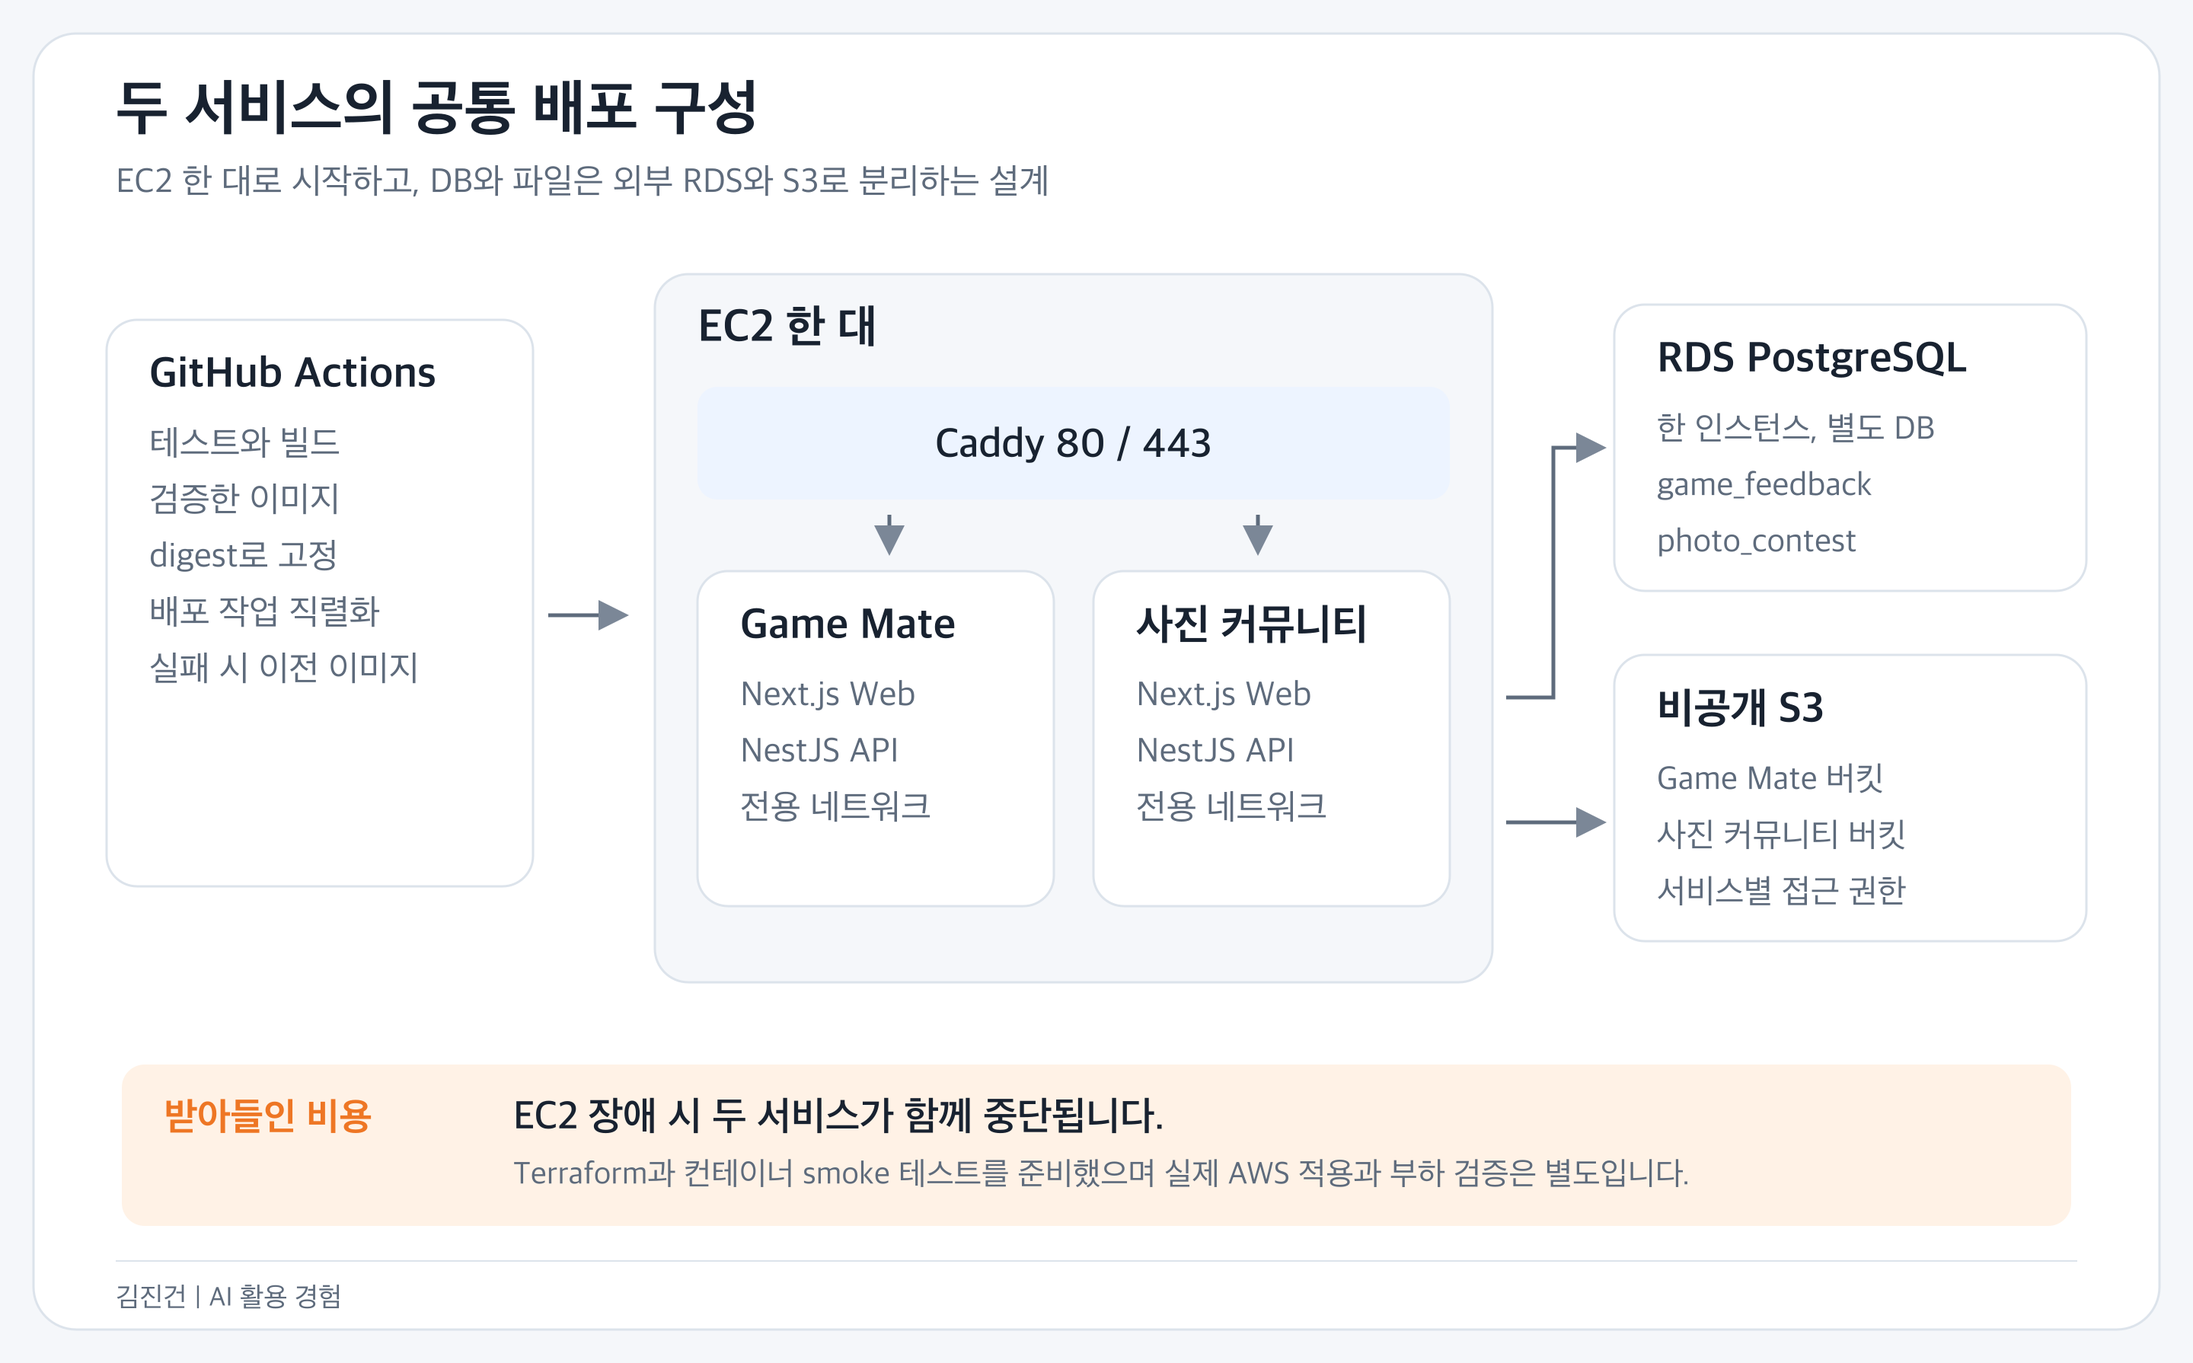
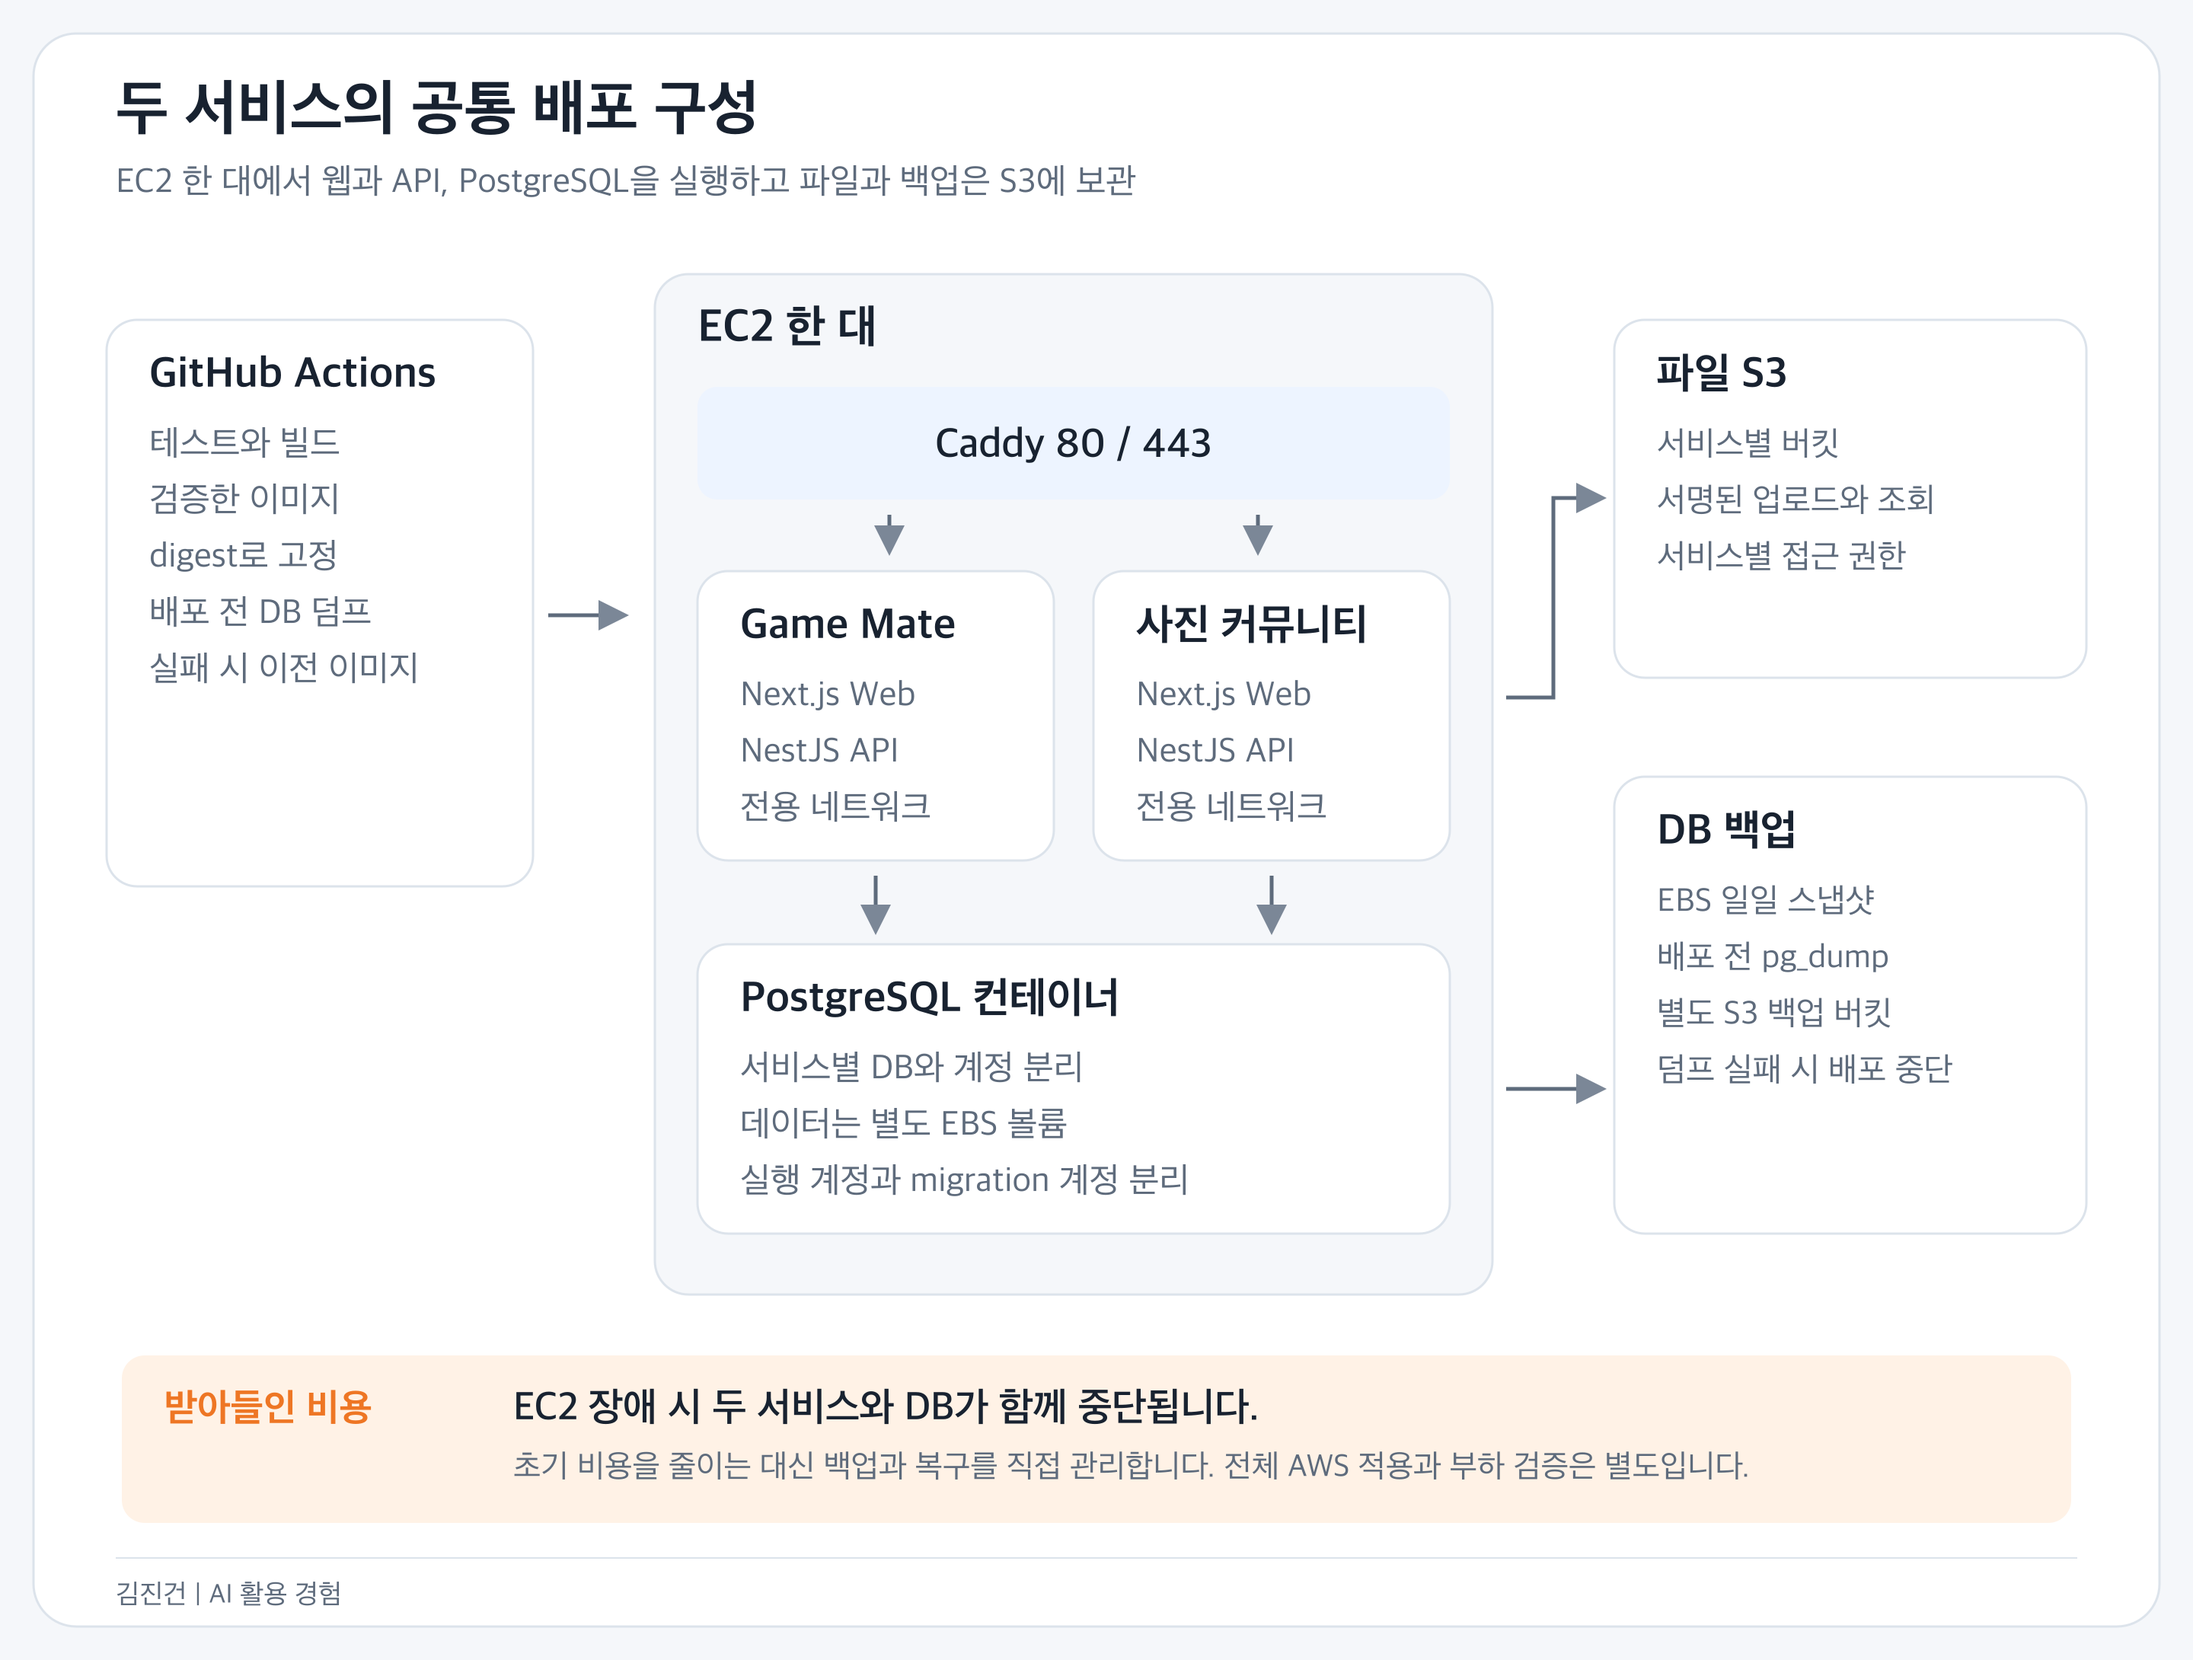
docs(doers): 최근 제품 판단과 Web Vitals 검증을 반영한다

diff --git a/resumes/doers/README.md b/resumes/doers/README.md
@@ -9,7 +9,7 @@
 
 ## 코드와 기록
 
-포트폴리오는 2026년 10월 26일 `side-project`의 develop을 다시 확인해 수정했습니다. 코드 링크는 `2aa865bfbea937a65b921d6620a8b71bbdc21275`에 고정했습니다. GitHub에서 공개 저장소인 것도 확인했습니다. 기능 브랜치 작업이나 배포 예정 상태를 운영 성과로 바꾸지 않았습니다.
+포트폴리오는 2026년 10월 26일 `side-project`의 develop `b758d2e8`까지 확인해 수정했습니다. 코드 링크는 작업별로 대조한 커밋에 고정했습니다. GitHub에서 공개 저장소인 것도 확인했습니다. 기능 브랜치 작업이나 배포 예정 상태를 운영 성과로 바꾸지 않았습니다.
 
 다른 Codex 세션의 사용자 요청을 읽고 실제 코드와 대조했습니다. 대화 전체나 인증 설정은 제출 문서에 옮기지 않았습니다.
 
@@ -24,12 +24,18 @@
 | API 파일 수신의 동시 처리 제한에서 모든 파일의 S3 직접 업로드로 변경 | 2ca0034f 커밋과 현재 MediaStorage 구현 |
 | 앱별 테스트 소유, unit과 integration을 구현 옆에 배치 | 테스트 skills와 앱별 설정 |
 | 공용 TypeScript ESLint와 RuleTester, fixture | 공용 ESLint 패키지 |
-| 최소 비용 배포, CD 준비, 두 서비스를 한 EC2와 외부 DB, S3에 배치 | 공통 배포 구성과 Terraform |
+| 초기 배포 비용 축소, RDS 대신 같은 EC2의 PostgreSQL로 변경 | 0054e673의 EBS 분리, 스냅샷과 S3 덤프, 배포 전 백업 검사 |
+| 실제 S3 업로드와 조회 확인 요청 | 게임 서비스 implementation 문서의 HTTP/API 검증 기록 |
+| 공용 설정과 실행 도구 패키지 통합 | packages/config와 packages/toolkit, 수정된 문서 링크 |
 | Amplitude와 Sentry MCP 연결, 실제 수신 결과 재조회 | 두 서비스의 observability 문서와 monitoring.live.spec.ts |
+| 가입 본문만 스크롤하고 완료 버튼 유지, 프로필은 버튼으로 수정 창 열기 | 97923a8c의 가입, 프로필, API 계약과 회귀 테스트 |
+| Sentry에 두 서비스의 Web Vitals도 수집 | 82199271의 BrowserTracing 설정, 전송 테스트와 MCP 수신 기록 |
 
-Sentry의 모니터링과 로깅, Web Vitals 측정, MCP 연결은 구분합니다. 현재 develop의 두 웹은 tracesSampleRate가 0이고 성능 추적을 사용하지 않습니다. 사용자는 2026년 10월 26일 사이드프로젝트의 Web Vitals 측정을 develop에서 작업할 예정이라고 확인했습니다. 포트폴리오에는 완료한 오류 수집과 MCP 재조회를 적고, 실무 복지몰의 Web Vitals 측정과 섞지 않습니다.
+최근 다른 세션에서 사용자가 요청한 프로필 수정 방식, 소개의 링크 이동, Sentry release 확인, MCP 연결 뒤 실제 수신 검사, 두 서비스의 Web Vitals 추가를 읽고 구현과 대조했습니다. 대화에 포함된 계정, 인증 설정과 원문 로그는 옮기지 않았습니다.
 
-화면 캡처는 10월 25~26일 저장된 실제 UI 검증 이미지로 바꿨습니다. Game Mate 가입과 프로필 수정은 최신 작업 브랜치의 화면이며, 코드 링크의 develop 기준과 구분합니다. 원본 경로와 저장 시점, 대조한 커밋, 해시는 이미지 폴더의 captures/manifest.json에 남겼습니다.
+Web Vitals는 처음 확인할 때 구현 예정이었으나 82199271에서 develop에 합쳐졌습니다. 브라우저의 다섯 지표 전송 테스트와 실제 Sentry의 LCP, CLS, INP span을 MCP로 재조회한 기록을 확인해 반영했습니다. 운영 사용자 성능 개선이나 운영 배포를 완료했다는 뜻으로 쓰지 않습니다. 실무 복지몰의 SDK 전송 방식과도 구분합니다.
+
+화면 캡처는 10월 25~26일 저장된 실제 UI 검증 이미지입니다. Game Mate 가입과 프로필 수정도 97923a8c에서 develop에 합쳐졌습니다. 원본 경로와 저장 시점, 대조한 커밋, 해시는 이미지 폴더의 captures/manifest.json에 남겼습니다.
 
 ## 제출 전 확인
 
